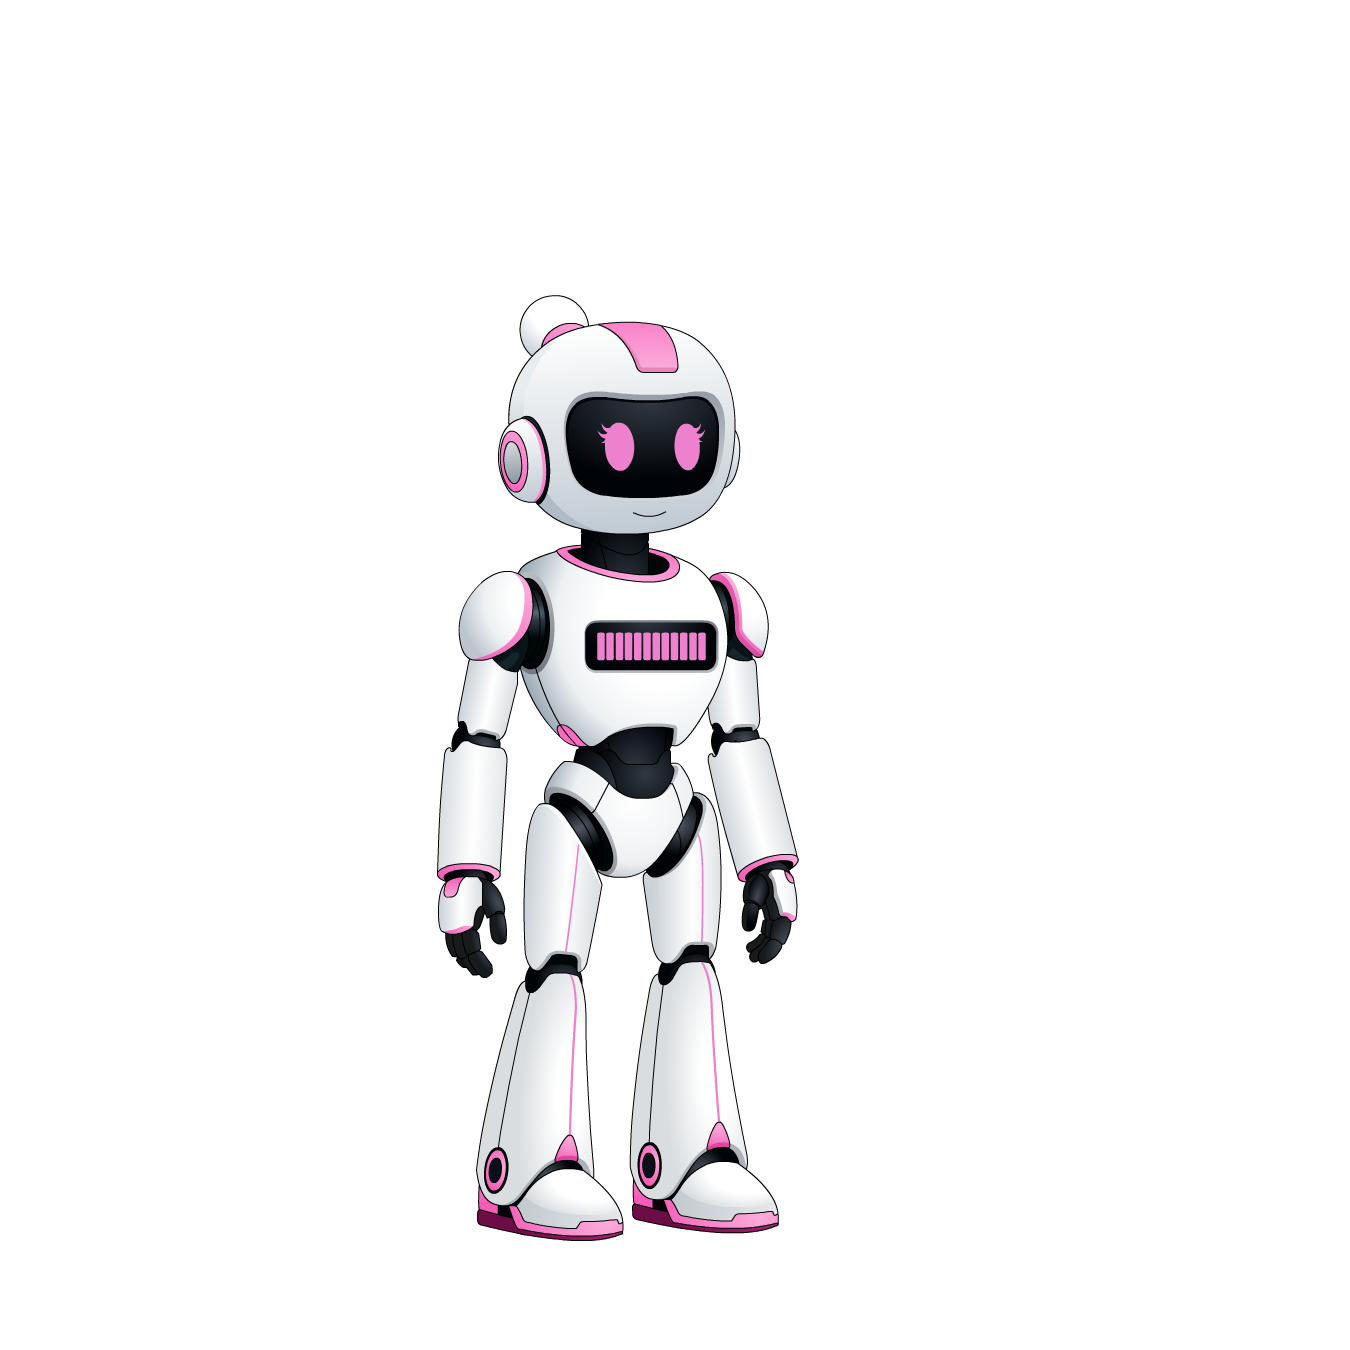
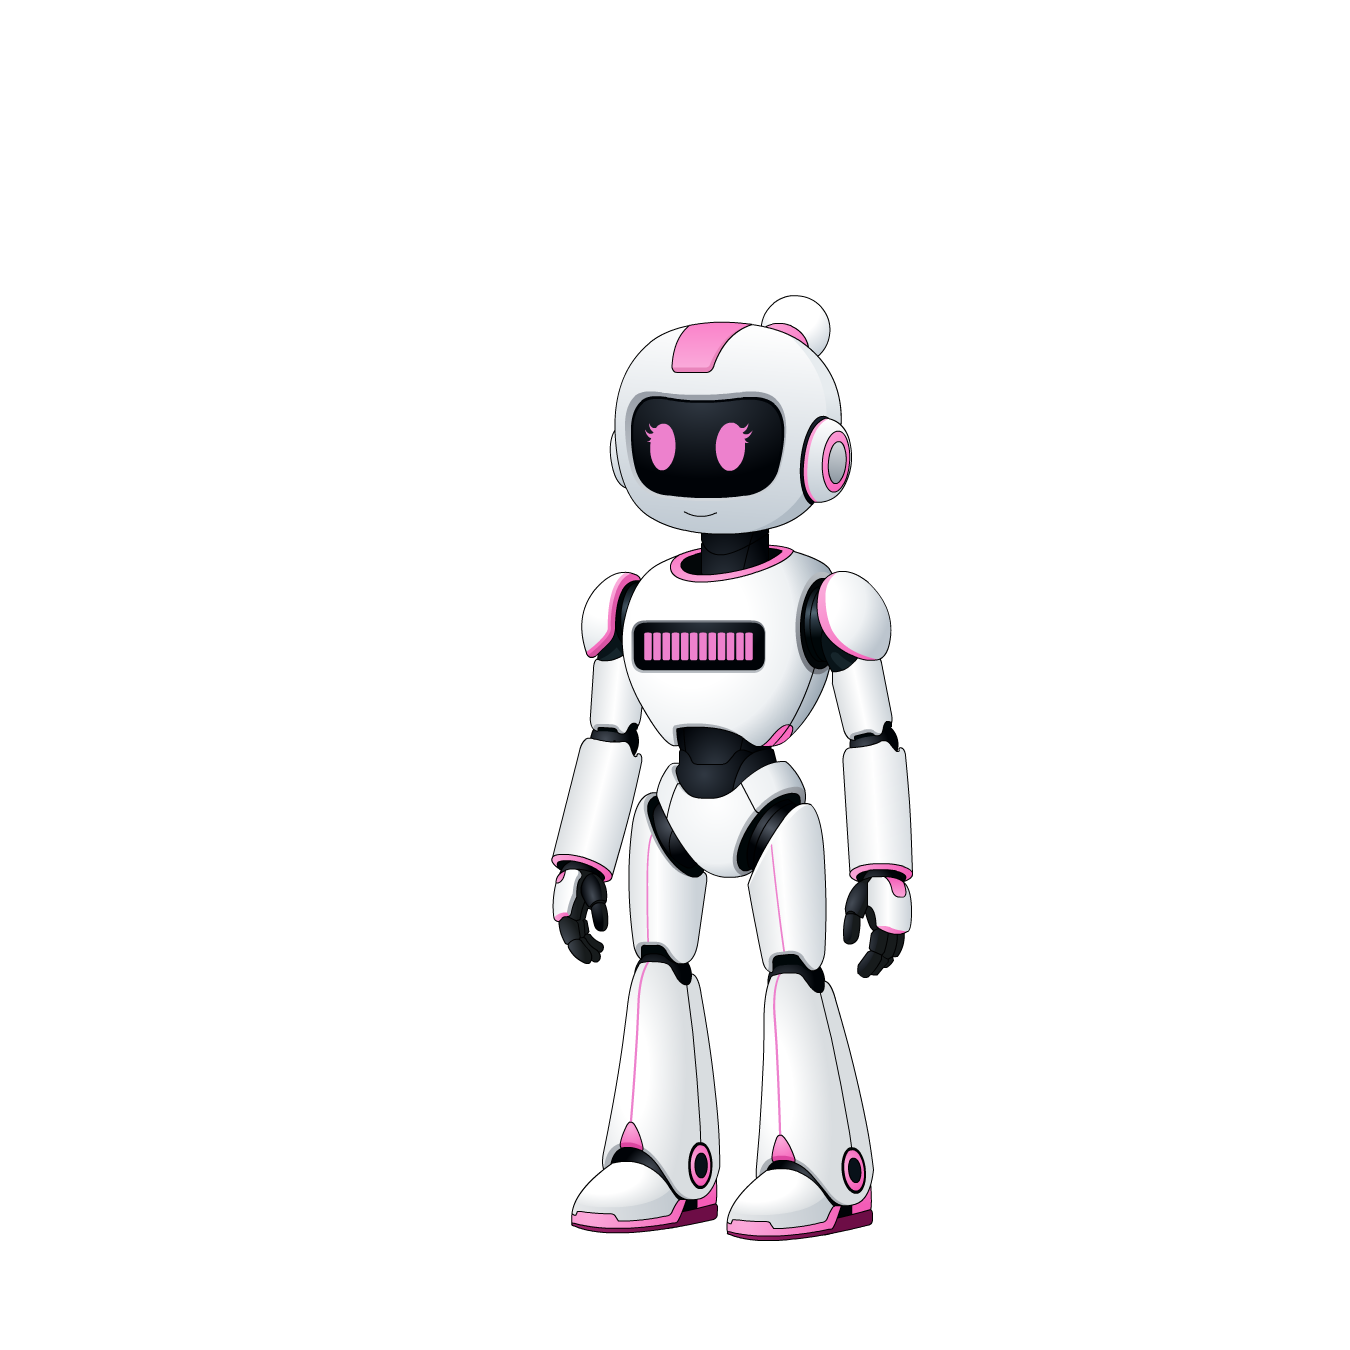
style: add robot to the community page

Changed region(s): [[0.3111, 0.2178, 0.6844, 0.9333]]

diff --git a/FYP-ProjectWebsite/css/game.css b/FYP-ProjectWebsite/css/game.css
@@ -981,3 +981,173 @@ body {
   padding: 2rem;
   font-style: italic;
 }
+
+/* ================================================================
+   COMMUNITY SPLIT LAYOUT (two-column, Valorant-style)
+   ================================================================ */
+
+.community-split-section {
+  display: flex;
+  flex-direction: row;
+  align-items: stretch;
+  background: linear-gradient(135deg, #0A1628 0%, #1A3A6B 100%);
+  overflow: hidden;
+  position: relative;
+}
+
+/* Left column – robot art */
+.community-art {
+  flex: 0 0 45%;
+  position: relative;
+  display: flex;
+  align-items: flex-end;
+  justify-content: center;
+  overflow: hidden;
+}
+
+.community-art::before {
+  content: '';
+  position: absolute;
+  top: 50%;
+  left: 50%;
+  transform: translate(-50%, -50%);
+  width: 500px;
+  height: 500px;
+  background: radial-gradient(circle, rgba(0, 212, 255, 0.15) 0%, transparent 70%);
+  z-index: 0;
+  pointer-events: none;
+}
+
+.community-robots-img {
+  width: 100%;
+  max-width: 520px;
+  height: auto;
+  object-fit: contain;
+  object-position: bottom center;
+  position: relative;
+  z-index: 1;
+  margin-bottom: -20px;
+  filter: drop-shadow(0 0 30px rgba(0, 212, 255, 0.3));
+}
+
+/* Right column – content */
+.community-content {
+  flex: 0 0 55%;
+  display: flex;
+  flex-direction: column;
+  justify-content: center;
+  padding: 3rem 3rem 3rem 2rem;
+}
+
+/* Heading block inside right column */
+.community-heading {
+  margin-bottom: 1.5rem;
+}
+
+.community-heading .section-dots {
+  display: flex;
+  flex-direction: row;
+  gap: 6px;
+  margin-bottom: 0.75rem;
+}
+
+.community-heading .section-dots span {
+  display: inline-block;
+  width: 8px;
+  height: 8px;
+  border-radius: 50%;
+  background: #00D4FF;
+}
+
+.community-heading h2 {
+  font-family: 'Nunito', sans-serif;
+  font-size: clamp(2rem, 4vw, 3rem);
+  font-weight: 900;
+  color: #ffffff;
+  margin: 0 0 0.5rem 0;
+  text-transform: uppercase;
+  letter-spacing: 1px;
+}
+
+.community-sub {
+  color: rgba(255, 255, 255, 0.7);
+  font-size: 0.95rem;
+  margin: 0 0 1.5rem 0;
+}
+
+/* Dark-background overrides for tabs and cards */
+.community-split-section .community-tab {
+  border-color: #00D4FF;
+  color: #00D4FF;
+  background: transparent;
+}
+
+.community-split-section .community-tab.active {
+  background: #1E90FF;
+  color: #ffffff;
+  border-color: #1E90FF;
+}
+
+.community-split-section .announcement-card {
+  background: rgba(255, 255, 255, 0.07);
+  border-left-color: #00D4FF;
+  color: #ffffff;
+}
+
+.community-split-section .ann-title {
+  color: #ffffff;
+}
+
+.community-split-section .ann-body {
+  color: rgba(255, 255, 255, 0.8);
+}
+
+.community-split-section .ann-date {
+  color: rgba(255, 255, 255, 0.5);
+}
+
+.community-split-section .forum-card {
+  background: rgba(255, 255, 255, 0.07);
+  color: #ffffff;
+}
+
+.community-split-section .forum-username {
+  color: #ffffff;
+}
+
+.community-split-section .forum-message {
+  color: rgba(255, 255, 255, 0.8);
+}
+
+.community-split-section .forum-date {
+  color: rgba(255, 255, 255, 0.5);
+}
+
+.community-split-section .forum-invite p {
+  color: rgba(255, 255, 255, 0.8);
+}
+
+.community-split-section .forum-recent-heading {
+  color: #ffffff;
+}
+
+/* Mobile: stack columns vertically */
+@media (max-width: 768px) {
+  .community-split-section {
+    flex-direction: column;
+  }
+
+  .community-art {
+    flex: 0 0 auto;
+    max-height: 300px;
+  }
+
+  .community-robots-img {
+    max-width: 280px;
+  }
+
+  .community-content {
+    padding: 1.5rem;
+    max-height: none;
+  }
+}

diff --git a/FYP-ProjectWebsite/game.html b/FYP-ProjectWebsite/game.html
@@ -109,75 +109,85 @@
   <!-- ===================================================================
        COMMUNITY
   =================================================================== -->
-  <section id="community" class="features-section">
-    <div class="section-header">
-      <div class="section-dots">
-        <span></span><span></span><span></span><span></span>
-      </div>
-      <div class="section-title-line">
-        <span class="line-decor line-decor--left"></span>
+  <section id="community" class="community-split-section">
+
+    <!-- LEFT: Robot art -->
+    <div class="community-art">
+      <img src="assets/robot_together.png" alt="EverMotion Characters" class="community-robots-img" />
+    </div>
+
+    <!-- RIGHT: Content -->
+    <div class="community-content">
+
+      <!-- Section heading -->
+      <div class="community-heading">
+        <div class="section-dots">
+          <span></span><span></span><span></span><span></span>
+        </div>
         <h2>Community</h2>
-        <span class="line-decor line-decor--right"></span>
-      </div>
-    </div>
-
-    <!-- Tab Bar -->
-    <div class="community-tabs" role="tablist">
-      <button class="community-tab active" id="tab-btn-announcements" role="tab" aria-selected="true" aria-controls="tab-announcements" data-tab="announcements">
-        📢 Announcements
-      </button>
-      <button class="community-tab" id="tab-btn-forum" role="tab" aria-selected="false" aria-controls="tab-forum" data-tab="forum">
-        💬 Player Forum
-      </button>
-    </div>
-
-    <!-- Tab Panels -->
-    <div class="community-panels">
-
-      <!-- ── Announcements ── -->
-      <div class="community-panel active" id="tab-announcements" role="tabpanel" aria-labelledby="tab-btn-announcements">
-        <div class="announcement-card">
-          <div class="ann-header">
-            <span class="ann-tag">🚀 Release</span>
-            <span class="ann-date">20 June 2026</span>
-          </div>
-          <h3 class="ann-title">EverMotion v0.1 — Milestone 1 Build Now Available</h3>
-          <p class="ann-body">Our first playable build is live! This release includes 6 mini-games across the Shoulder, Finger, and Wrist systems. Download the installer above and give it a try. Webcam required. Windows 10/11 only.</p>
-        </div>
-
-        <div class="announcement-card">
-          <div class="ann-header">
-            <span class="ann-tag">🛠️ Update</span>
-            <span class="ann-date">15 June 2026</span>
-          </div>
-          <h3 class="ann-title">Sky Reach Protocol &amp; Micro Node Activation — Now Playable</h3>
-          <p class="ann-body">Two flagship games are now fully implemented with MediaPipe hand tracking. Sky Reach Protocol targets shoulder rehabilitation through gesture-based energy node collection. Micro Node Activation targets finger precision. More games rolling out before final release in August.</p>
-        </div>
-
-        <div class="announcement-card">
-          <div class="ann-header">
-            <span class="ann-tag">📅 Event</span>
-            <span class="ann-date">13 June 2026</span>
-          </div>
-          <h3 class="ann-title">Mid-Point Demo Day — 13 June 2026</h3>
-          <p class="ann-body">EchoCare presented EverMotion to our project supervisor and assessor today. The demo showcased our gesture tracking pipeline, game UI, and story mode flow. Thank you to Mr. Tian and Mr. Ee for the valuable feedback!</p>
-        </div>
+        <p class="community-sub">Stay up to date with EverMotion news and share your experience with other players.</p>
       </div>
 
-      <!-- ── Player Forum ── -->
-      <div class="community-panel" id="tab-forum" role="tabpanel" aria-labelledby="tab-btn-forum" hidden>
-        <div class="forum-invite">
-          <p>We'd love to hear from you! Share your experience, report a bug, or suggest a feature. All feedback goes directly to the EchoCare development team.</p>
-          <a href="https://docs.google.com/forms/d/e/1FAIpQLSe8ISLZuz-QoKunF-zqwLR1Hj8idZHmBBy22VFhAAlar4B-Gg/viewform" target="_blank" rel="noopener" class="btn btn-primary forum-cta">Submit Feedback via Google Form &rarr;</a>
-        </div>
-
-        <h3 class="forum-recent-heading">What Players Are Saying</h3>
-        <div id="feedback-feed">
-          <div class="feedback-spinner"></div>
-        </div>
+      <!-- Tab Bar -->
+      <div class="community-tabs" role="tablist">
+        <button class="community-tab active" id="tab-btn-announcements" role="tab" aria-selected="true" aria-controls="tab-announcements" data-tab="announcements">
+          📢 Announcements
+        </button>
+        <button class="community-tab" id="tab-btn-forum" role="tab" aria-selected="false" aria-controls="tab-forum" data-tab="forum">
+          💬 Player Forum
+        </button>
       </div>
 
-    </div><!-- /.community-panels -->
+      <!-- Tab Panels -->
+      <div class="community-panels">
+
+        <!-- ── Announcements ── -->
+        <div class="community-panel active" id="tab-announcements" role="tabpanel" aria-labelledby="tab-btn-announcements">
+          <div class="announcement-card">
+            <div class="ann-header">
+              <span class="ann-tag">🚀 Release</span>
+              <span class="ann-date">20 June 2026</span>
+            </div>
+            <h3 class="ann-title">EverMotion v0.1 — Milestone 1 Build Now Available</h3>
+            <p class="ann-body">Our first playable build is live! This release includes 6 mini-games across the Shoulder, Finger, and Wrist systems. Download the installer above and give it a try. Webcam required. Windows 10/11 only.</p>
+          </div>
+
+          <div class="announcement-card">
+            <div class="ann-header">
+              <span class="ann-tag">🛠️ Update</span>
+              <span class="ann-date">15 June 2026</span>
+            </div>
+            <h3 class="ann-title">Sky Reach Protocol &amp; Micro Node Activation — Now Playable</h3>
+            <p class="ann-body">Two flagship games are now fully implemented with MediaPipe hand tracking. Sky Reach Protocol targets shoulder rehabilitation through gesture-based energy node collection. Micro Node Activation targets finger precision. More games rolling out before final release in August.</p>
+          </div>
+
+          <div class="announcement-card">
+            <div class="ann-header">
+              <span class="ann-tag">📅 Event</span>
+              <span class="ann-date">13 June 2026</span>
+            </div>
+            <h3 class="ann-title">Mid-Point Demo Day — 13 June 2026</h3>
+            <p class="ann-body">EchoCare presented EverMotion to our project supervisor and assessor today. The demo showcased our gesture tracking pipeline, game UI, and story mode flow. Thank you to Mr. Tian and Mr. Ee for the valuable feedback!</p>
+          </div>
+        </div>
+
+        <!-- ── Player Forum ── -->
+        <div class="community-panel" id="tab-forum" role="tabpanel" aria-labelledby="tab-btn-forum" hidden>
+          <div class="forum-invite">
+            <p>We'd love to hear from you! Share your experience, report a bug, or suggest a feature. All feedback goes directly to the EchoCare development team.</p>
+            <a href="https://docs.google.com/forms/d/e/1FAIpQLSe8ISLZuz-QoKunF-zqwLR1Hj8idZHmBBy22VFhAAlar4B-Gg/viewform" target="_blank" rel="noopener" class="btn btn-primary forum-cta">Submit Feedback via Google Form &rarr;</a>
+          </div>
+
+          <h3 class="forum-recent-heading">What Players Are Saying</h3>
+          <div id="feedback-feed">
+            <div class="feedback-spinner"></div>
+          </div>
+        </div>
+
+      </div><!-- /.community-panels -->
+
+    </div><!-- /.community-content -->
+
   </section>
 
   <!-- ===================================================================